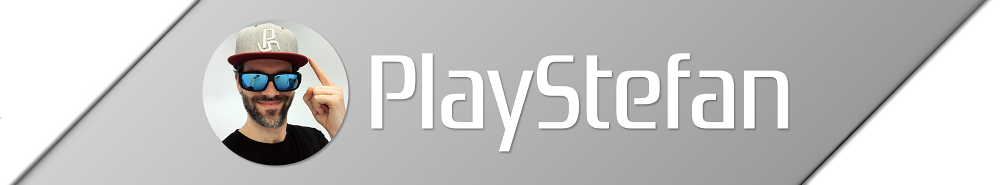
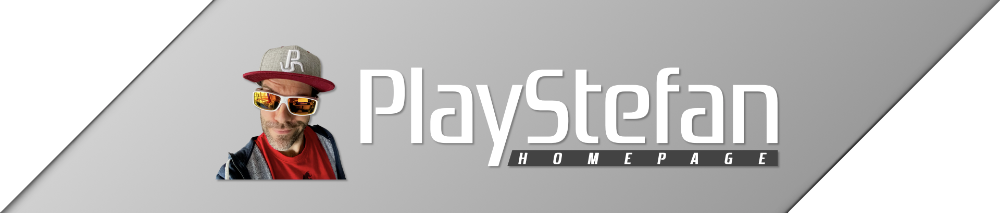
Seitenupdate 2021
Banner sowie Footer aktualisiert

diff --git a/datenschutz.html b/datenschutz.html
@@ -119,7 +119,7 @@ Dies setzt immer voraus, dass die Drittanbieter dieser Inhalte, die IP-Adresse d
 			<li><a class="twitter" href="https://twitter.com/PlayStefanDE" target="_blank" title="Twitter"><i class="fa fa-twitter fa-lg" aria-hidden="true"></i></a></li>
 			<li><a class="facebook" href="http://facebook.com/PlayStefanDE" target="_blank" title="facebook"><i class="fa fa-facebook-official fa-lg" aria-hidden="true"></i></a></li>
 			<li><a class="instagram" href="https://www.instagram.com/PlayStefanDE/" target="_blank" title="instagram"><i class="fa fa-instagram fa-lg" aria-hidden="true"></i></a></li>
-			<li class="right">&copy;2015 - 2020 PlayStefan</li>
+			<li class="right">&copy;2015 - 2021 PlayStefan</li>
 			<!-- more links -->	
 		</ul>
 	</div>	

diff --git a/impressum.html b/impressum.html
@@ -83,7 +83,7 @@ Die durch die Seitenbetreiber erstellten Inhalte und Werke auf diesen Seiten unt
 			<li><a class="twitter" href="https://twitter.com/PlayStefanDE" target="_blank" title="Twitter"><i class="fa fa-twitter fa-lg" aria-hidden="true"></i></a></li>
 			<li><a class="facebook" href="http://facebook.com/PlayStefanDE" target="_blank" title="facebook"><i class="fa fa-facebook-official fa-lg" aria-hidden="true"></i></a></li>
 			<li><a class="instagram" href="https://www.instagram.com/PlayStefanDE/" target="_blank" title="instagram"><i class="fa fa-instagram fa-lg" aria-hidden="true"></i></a></li>
-			<li class="right">&copy;2015 - 2020 PlayStefan</li>
+			<li class="right">&copy;2015 - 2021 PlayStefan</li>
 			<!-- more links -->	
 		</ul>
 	</div>	

diff --git a/ausruestung.html b/ausruestung.html
@@ -107,7 +107,7 @@
 			<li><a class="twitter" href="https://twitter.com/PlayStefanDE" target="_blank" title="Twitter"><i class="fa fa-twitter fa-lg" aria-hidden="true"></i></a></li>
 			<li><a class="facebook" href="http://facebook.com/PlayStefanDE" target="_blank" title="facebook"><i class="fa fa-facebook-official fa-lg" aria-hidden="true"></i></a></li>
 			<li><a class="instagram" href="https://www.instagram.com/PlayStefanDE/" target="_blank" title="instagram"><i class="fa fa-instagram fa-lg" aria-hidden="true"></i></a></li>
-			<li class="right">&copy;2015 - 2020 PlayStefan</li>
+			<li class="right">&copy;2015 - 2021 PlayStefan</li>
 			<!-- more links -->	
 		</ul>
 	</div>	

diff --git a/news_2015.html b/news_2015.html
@@ -233,7 +233,7 @@
 			<li><a class="twitter" href="https://twitter.com/PlayStefanDE" target="_blank" title="Twitter"><i class="fa fa-twitter fa-lg" aria-hidden="true"></i></a></li>
 			<li><a class="facebook" href="http://facebook.com/PlayStefanDE" target="_blank" title="facebook"><i class="fa fa-facebook-official fa-lg" aria-hidden="true"></i></a></li>
 			<li><a class="instagram" href="https://www.instagram.com/PlayStefanDE/" target="_blank" title="instagram"><i class="fa fa-instagram fa-lg" aria-hidden="true"></i></a></li>
-			<li class="right">&copy;2015 - 2020 PlayStefan</li>
+			<li class="right">&copy;2015 - 2021 PlayStefan</li>
 			<!-- more links -->	
 		</ul>
 	</div>	

diff --git a/news_2016.html b/news_2016.html
@@ -207,7 +207,7 @@
 			<li><a class="twitter" href="https://twitter.com/PlayStefanDE" target="_blank" title="Twitter"><i class="fa fa-twitter fa-lg" aria-hidden="true"></i></a></li>
 			<li><a class="facebook" href="http://facebook.com/PlayStefanDE" target="_blank" title="facebook"><i class="fa fa-facebook-official fa-lg" aria-hidden="true"></i></a></li>
 			<li><a class="instagram" href="https://www.instagram.com/PlayStefanDE/" target="_blank" title="instagram"><i class="fa fa-instagram fa-lg" aria-hidden="true"></i></a></li>
-			<li class="right">&copy;2015 - 2020 PlayStefan</li>
+			<li class="right">&copy;2015 - 2021 PlayStefan</li>
 			<!-- more links -->	
 		</ul>
 	</div>	

diff --git a/news_2017.html b/news_2017.html
@@ -146,7 +146,7 @@
 			<li><a class="twitter" href="https://twitter.com/PlayStefanDE" target="_blank" title="Twitter"><i class="fa fa-twitter fa-lg" aria-hidden="true"></i></a></li>
 			<li><a class="facebook" href="http://facebook.com/PlayStefanDE" target="_blank" title="facebook"><i class="fa fa-facebook-official fa-lg" aria-hidden="true"></i></a></li>
 			<li><a class="instagram" href="https://www.instagram.com/PlayStefanDE/" target="_blank" title="instagram"><i class="fa fa-instagram fa-lg" aria-hidden="true"></i></a></li>
-			<li class="right">&copy;2015 - 2020 PlayStefan</li>
+			<li class="right">&copy;2015 - 2021 PlayStefan</li>
 			<!-- more links -->	
 		</ul>
 	</div>	

diff --git a/stuff/prisma.html b/stuff/prisma.html
@@ -104,7 +104,7 @@
 			<li><a class="twitter" href="https://twitter.com/PlayStefanDE" target="_blank" title="Twitter"><i class="fa fa-twitter fa-lg" aria-hidden="true"></i></a></li>
 			<li><a class="facebook" href="http://facebook.com/PlayStefanDE" target="_blank" title="facebook"><i class="fa fa-facebook-official fa-lg" aria-hidden="true"></i></a></li>
 			<li><a class="instagram" href="https://www.instagram.com/PlayStefanDE/" target="_blank" title="instagram"><i class="fa fa-instagram fa-lg" aria-hidden="true"></i></a></li>
-			<li class="right">&copy;2015 - 2020 PlayStefan</li>
+			<li class="right">&copy;2015 - 2021 PlayStefan</li>
 			<!-- more links -->	
 		</ul>
 	</div>	

diff --git a/videos.html b/videos.html
@@ -122,7 +122,7 @@
 			<li><a class="twitter" href="https://twitter.com/PlayStefanDE" target="_blank" title="Twitter"><i class="fa fa-twitter fa-lg" aria-hidden="true"></i></a></li>
 			<li><a class="facebook" href="http://facebook.com/PlayStefanDE" target="_blank" title="facebook"><i class="fa fa-facebook-official fa-lg" aria-hidden="true"></i></a></li>
 			<li><a class="instagram" href="https://www.instagram.com/PlayStefanDE/" target="_blank" title="instagram"><i class="fa fa-instagram fa-lg" aria-hidden="true"></i></a></li>
-			<li class="right">&copy;2015 - 2020 PlayStefan</li>
+			<li class="right">&copy;2015 - 2021 PlayStefan</li>
 			<!-- more links -->	
 		</ul>
 	</div>	

diff --git a/index.html b/index.html
@@ -72,7 +72,7 @@
 			<li><a class="twitter" href="https://twitter.com/PlayStefanDE" target="_blank" title="Twitter"><i class="fa fa-twitter fa-lg" aria-hidden="true"></i></a></li>
 			<li><a class="facebook" href="http://facebook.com/PlayStefanDE" target="_blank" title="facebook"><i class="fa fa-facebook-official fa-lg" aria-hidden="true"></i></a></li>
 			<li><a class="instagram" href="https://www.instagram.com/PlayStefanDE/" target="_blank" title="instagram"><i class="fa fa-instagram fa-lg" aria-hidden="true"></i></a></li>
-			<li class="right">&copy;2015 - 2020 PlayStefan</li>
+			<li class="right">&copy;2015 - 2021 PlayStefan</li>
 			<!-- more links -->	
 		</ul>
 	</div>	

diff --git a/letsplays.html b/letsplays.html
@@ -70,7 +70,7 @@
 			<li><a class="twitter" href="https://twitter.com/PlayStefanDE" target="_blank" title="Twitter"><i class="fa fa-twitter fa-lg" aria-hidden="true"></i></a></li>
 			<li><a class="facebook" href="http://facebook.com/PlayStefanDE" target="_blank" title="facebook"><i class="fa fa-facebook-official fa-lg" aria-hidden="true"></i></a></li>
 			<li><a class="instagram" href="https://www.instagram.com/PlayStefanDE/" target="_blank" title="instagram"><i class="fa fa-instagram fa-lg" aria-hidden="true"></i></a></li>
-			<li class="right">&copy;2015 - 2020 PlayStefan</li>
+			<li class="right">&copy;2015 - 2021 PlayStefan</li>
 			<!-- more links -->	
 		</ul>
 	</div>	

diff --git a/news.html b/news.html
@@ -74,7 +74,7 @@
 			<li><a class="twitter" href="https://twitter.com/PlayStefanDE" target="_blank" title="Twitter"><i class="fa fa-twitter fa-lg" aria-hidden="true"></i></a></li>
 			<li><a class="facebook" href="http://facebook.com/PlayStefanDE" target="_blank" title="facebook"><i class="fa fa-facebook-official fa-lg" aria-hidden="true"></i></a></li>
 			<li><a class="instagram" href="https://www.instagram.com/PlayStefanDE/" target="_blank" title="instagram"><i class="fa fa-instagram fa-lg" aria-hidden="true"></i></a></li>
-			<li class="right">&copy;2015 - 2020 PlayStefan</li>
+			<li class="right">&copy;2015 - 2021 PlayStefan</li>
 			<!-- more links -->	
 		</ul>
 	</div>	

diff --git a/stuff.html b/stuff.html
@@ -69,7 +69,7 @@
 			<li><a class="twitter" href="https://twitter.com/PlayStefanDE" target="_blank" title="Twitter"><i class="fa fa-twitter fa-lg" aria-hidden="true"></i></a></li>
 			<li><a class="facebook" href="http://facebook.com/PlayStefanDE" target="_blank" title="facebook"><i class="fa fa-facebook-official fa-lg" aria-hidden="true"></i></a></li>
 			<li><a class="instagram" href="https://www.instagram.com/PlayStefanDE/" target="_blank" title="instagram"><i class="fa fa-instagram fa-lg" aria-hidden="true"></i></a></li>
-			<li class="right">&copy;2015 - 2020 PlayStefan</li>
+			<li class="right">&copy;2015 - 2021 PlayStefan</li>
 			<!-- more links -->	
 		</ul>
 	</div>	
